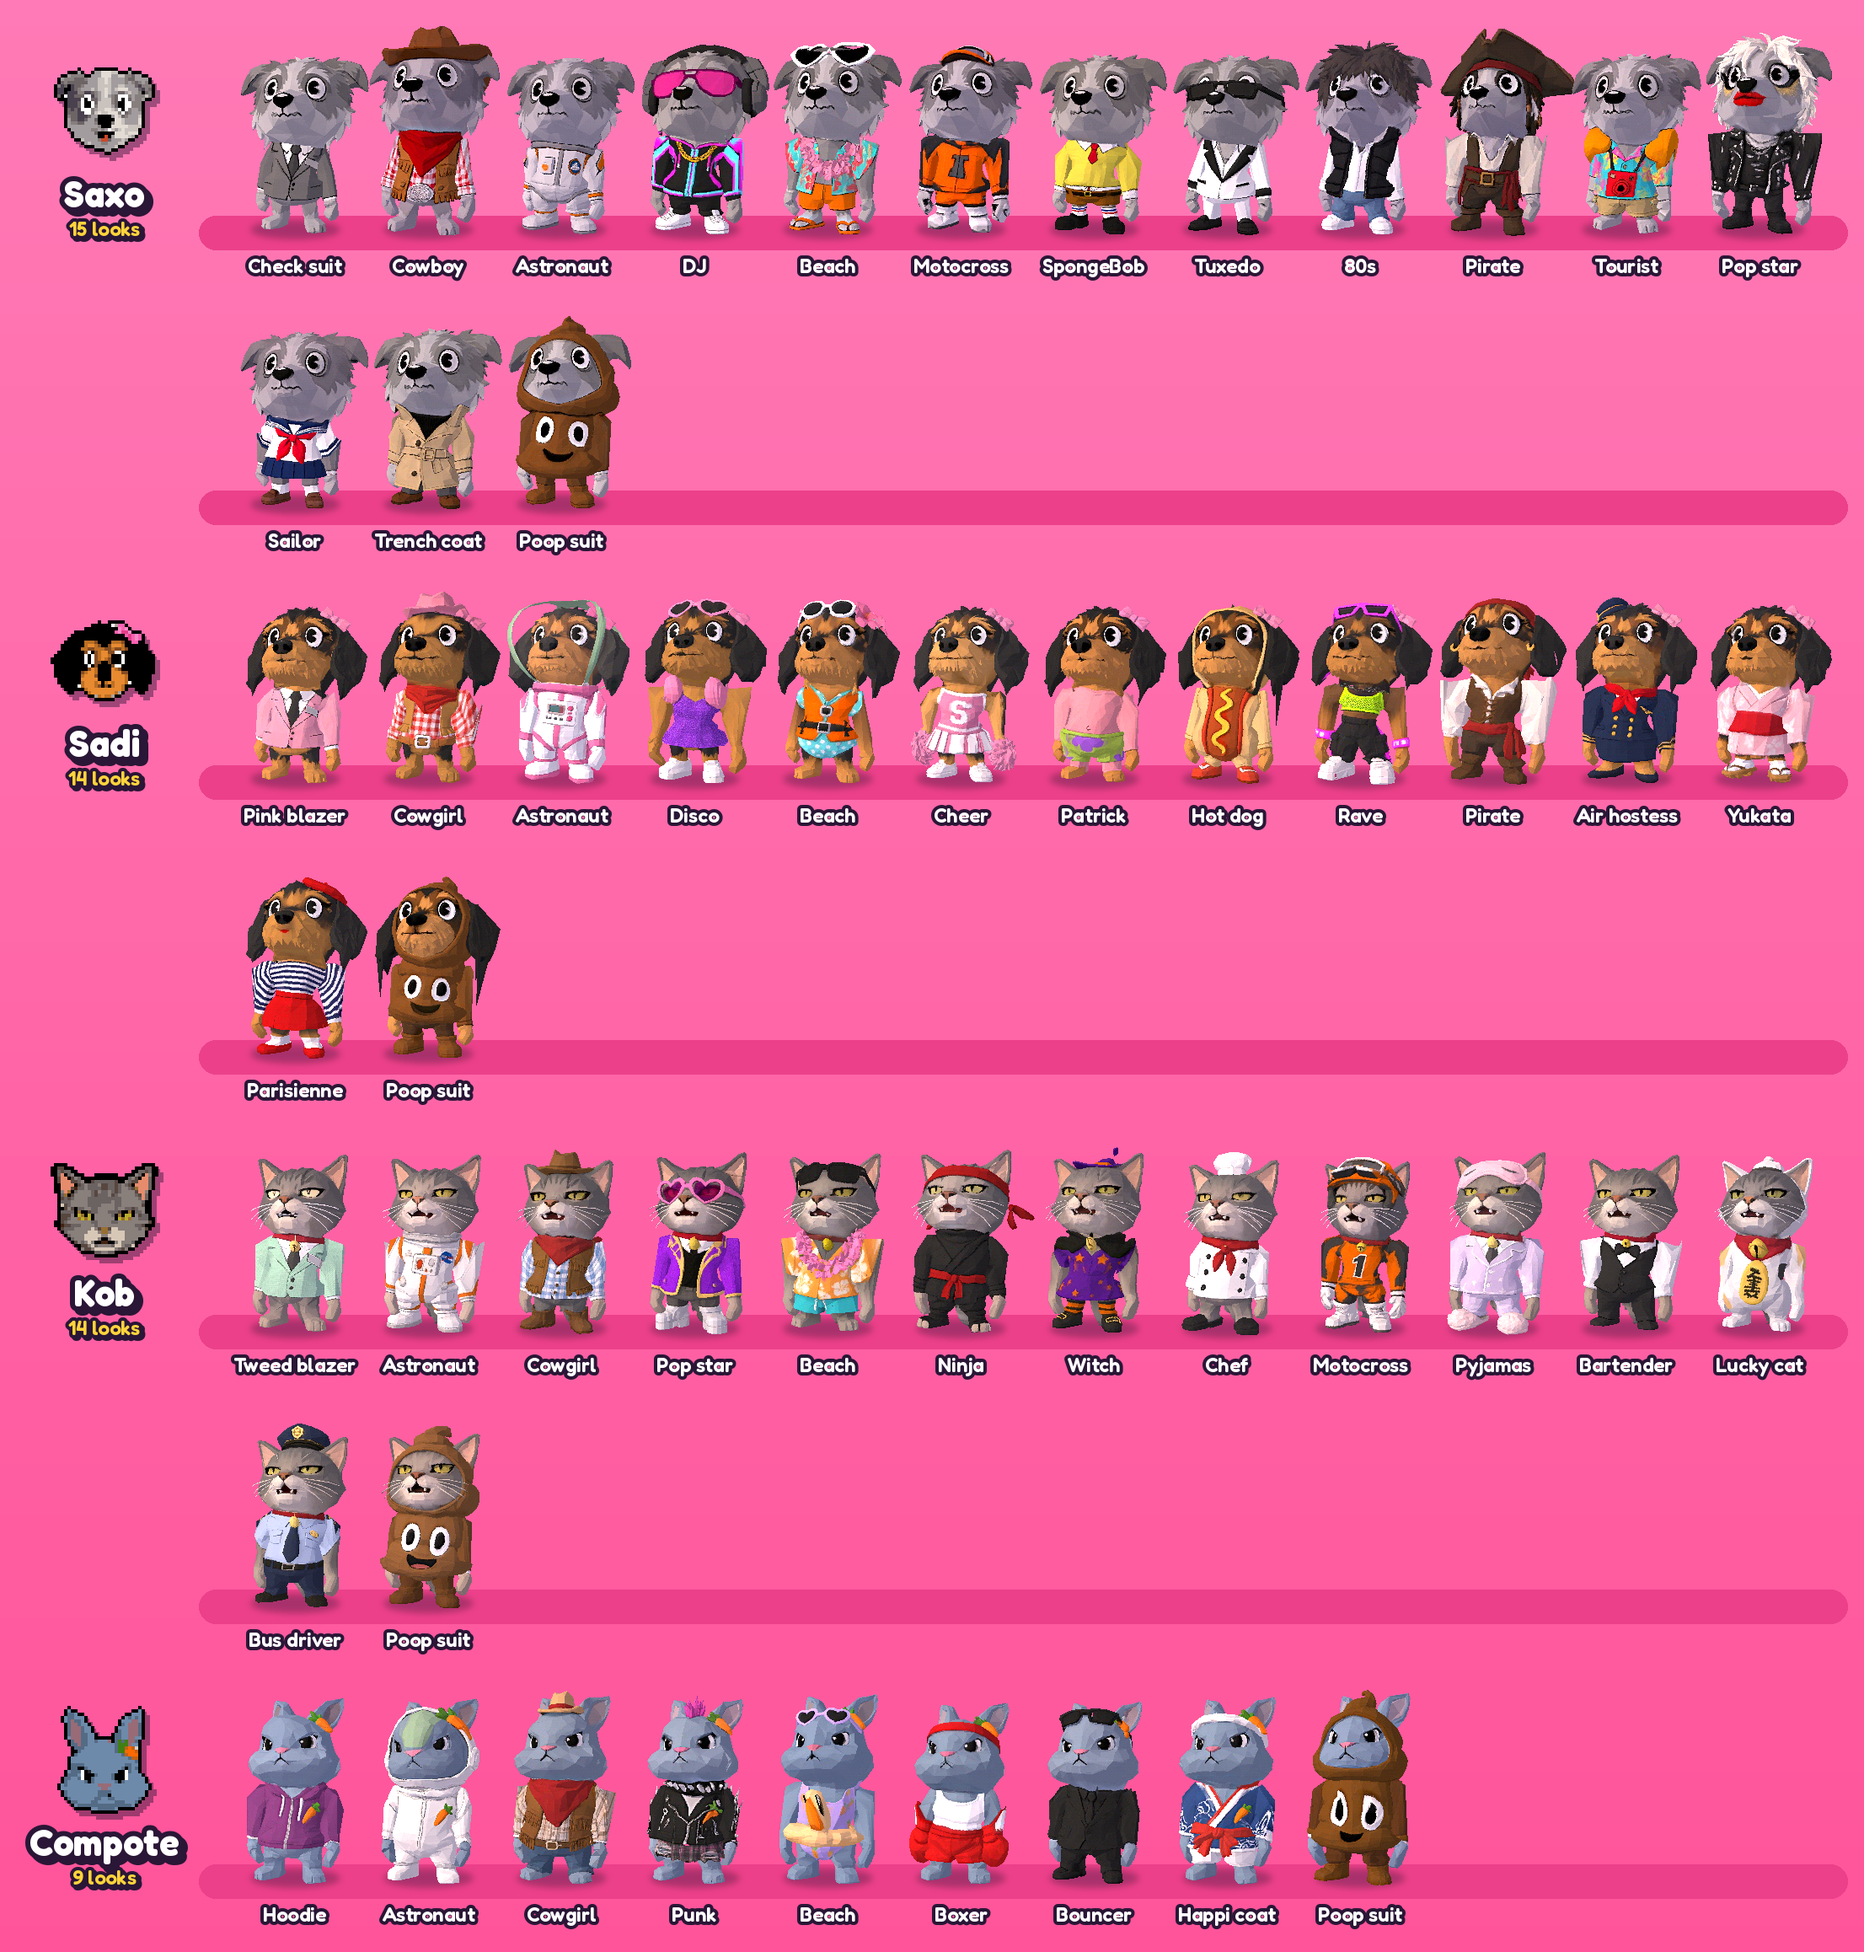
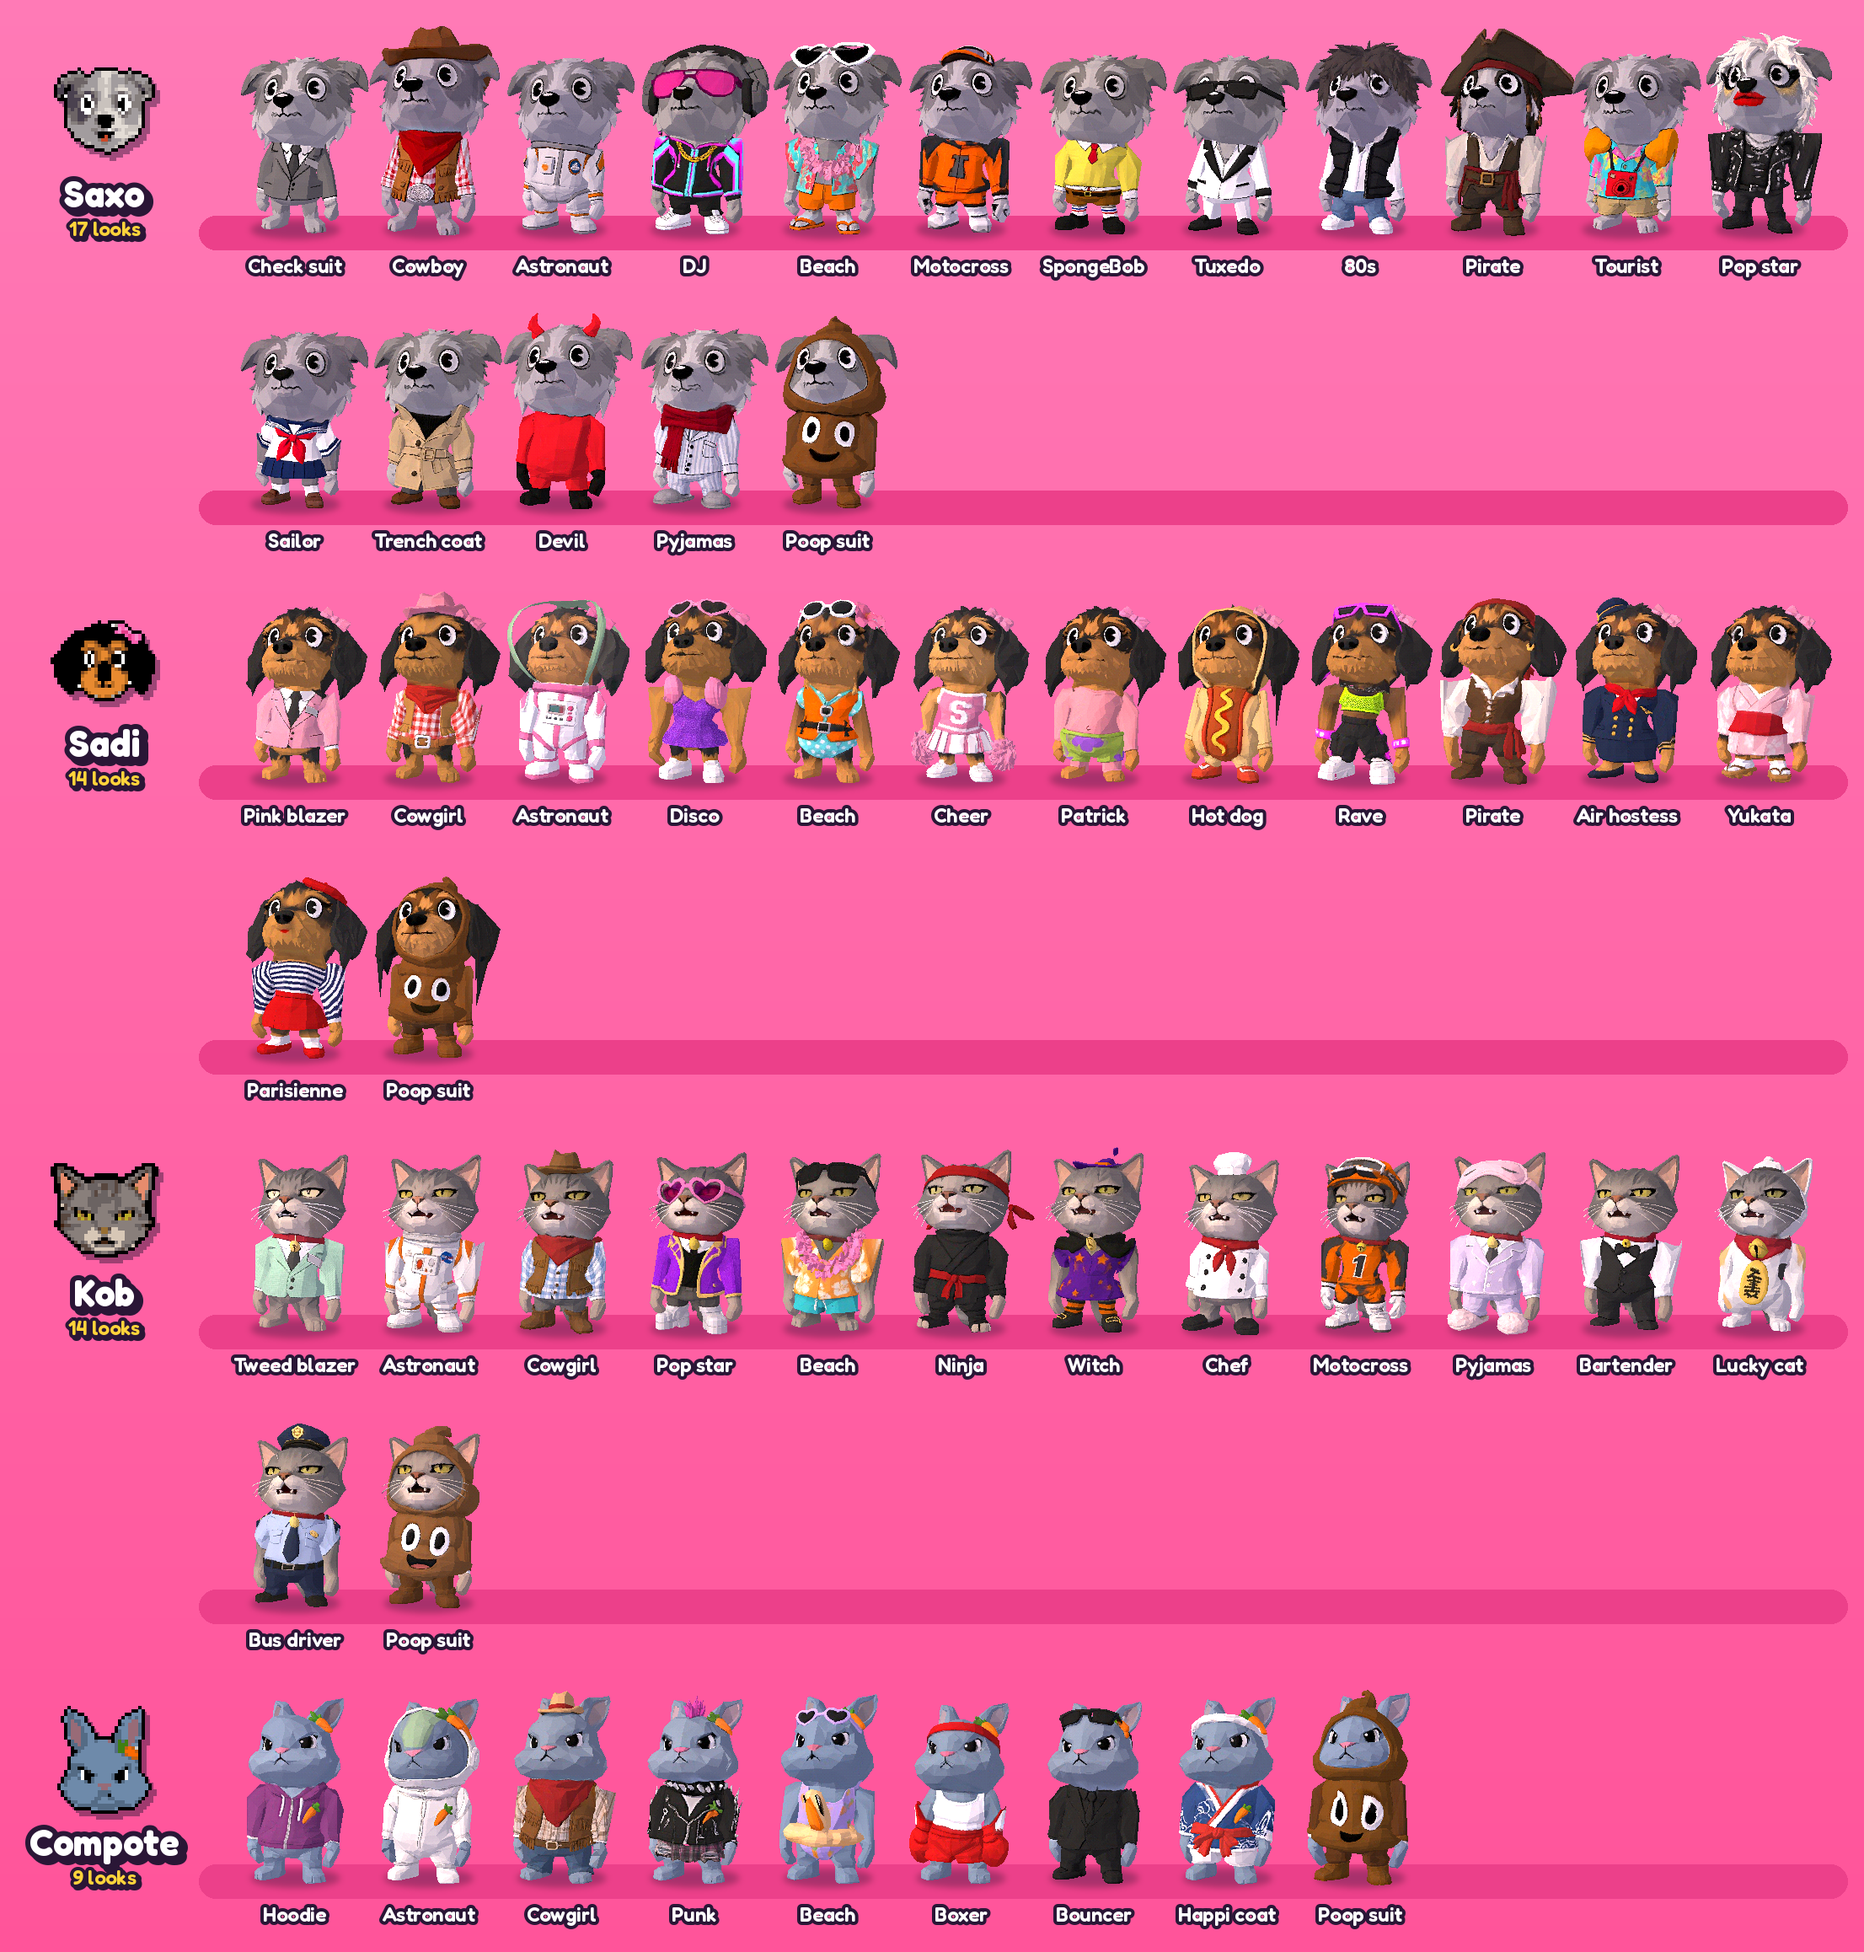
Sync with 16d9d2d: docs(readme): the house party and hospital ward maps, Saxo's pyjamas and devil suit

Changed region(s): [[0.2495, 0.1554, 0.4991, 0.2798]]

diff --git a/README.md b/README.md
@@ -58,8 +58,8 @@
       on screen, first and last letters kept; the song itself is untouched.</p>
       <p><b>The jokes.</b> Every lyric that names an action is acted out on the word. Four characters who each have one
       job keep their running gags going from video to video, plus costume changes on the beat, crowds, giants (a
-      19-metre bunny rising from the sea), a flight through turbulence over erupting volcanoes, thrown props, a fight
-      with a slow-motion replay and skate tricks.</p>
+      19-metre bunny rising from the sea), a sneeze that spreads through a whole party, a flight through turbulence over
+      erupting volcanoes, thrown props, a fight with a slow-motion replay and skate tricks.</p>
       <p><b>The loop.</b> Trends go in; views, likes and shares come back out into a playbook that the next video
       reads.</p>
     </td>
@@ -84,7 +84,7 @@
 </table>
 
 <p align="center">
-  <img src="docs/readme/wardrobe.png" width="100%" alt="The wardrobe: every look of Saxo, Sadi, Kob and Compote, from cowboy and astronaut to SpongeBob, a white tuxedo, Kob's pyjamas, the pirates, the tourist, the air hostess, a pop-star disguise, Kob the bartender, a sailor uniform, a yukata, a lucky-cat suit, a happi coat and the poop suit">
+  <img src="docs/readme/wardrobe.png" width="100%" alt="The wardrobe: every look of Saxo, Sadi, Kob and Compote, from cowboy and astronaut to SpongeBob, a white tuxedo, Kob's pyjamas, the pirates, the tourist, the air hostess, a pop-star disguise, Kob the bartender, a sailor uniform, a yukata, a lucky-cat suit, a happi coat, a trench coat, a Parisienne, a bus driver, sick-day pyjamas, a devil suit and the poop suit">
 </p>
 
 Each map dresses the cast for the occasion: astronaut suits on the moon, cowboy hats out west, SpongeBob and Patrick
@@ -93,7 +93,7 @@ in Bikini Bottom, a hot dog in the supermarket. The poop suit is never automatic
 ## 43 maps, and counting
 
 <p align="center">
-  <img src="docs/readme/maps.png" width="100%" alt="The maps, from the street, club and moon to Tokyo, Paris, the yacht, the techno club, the treasure cave, the black ship, the plane, the chapel club, the desert village, the blossom festival, the pier at dusk and the night bus, each with the cast in costume">
+  <img src="docs/readme/maps.png" width="100%" alt="The maps, from the street, club and moon to Tokyo, Paris, the yacht, the techno club, the treasure cave, the black ship, the plane, the chapel club, the desert village, the blossom festival, the pier at dusk, the night bus, a house party and a hospital ward, each with the cast in costume">
 </p>
 
 Every map is built from primitives in [`src/maps*.js`](src/) and animated as a pure function of time, mostly on the
@@ -175,9 +175,9 @@ vertex copies the bone weights of its six nearest body vertices. The partners ri
 467 clips in `assets/mixamo/anims/` play on anyone, with no Blender and no re-rigging. A crowd
 goes further: up to 99 copies of one look share a single hidden skeleton, so a whole room dances in sync for the price
 of one pose, in rows, in a ring or on tiered shelves, even washed to porcelain white (a shrine's display of lucky-cat
-statues, with the real cat hiding among them). Any character can also be scaled up into a giant that rises out of the
-sea and sinks back, and arm poses lock to the beat on top of any clip: paws flapping by the ears, a lucky cat's
-beckon, sticks beating a taiko.
+statues, with the real cat hiding among them), or a single copy at a quarter of the size: a tiny devil on Saxo's
+shoulder. Any character can also be scaled up into a giant that rises out of the sea and sinks back, and arm poses
+lock to the beat on top of any clip: paws flapping by the ears, a lucky cat's beckon, sticks beating a taiko.
 
 ### A QA gate that can say no
 
